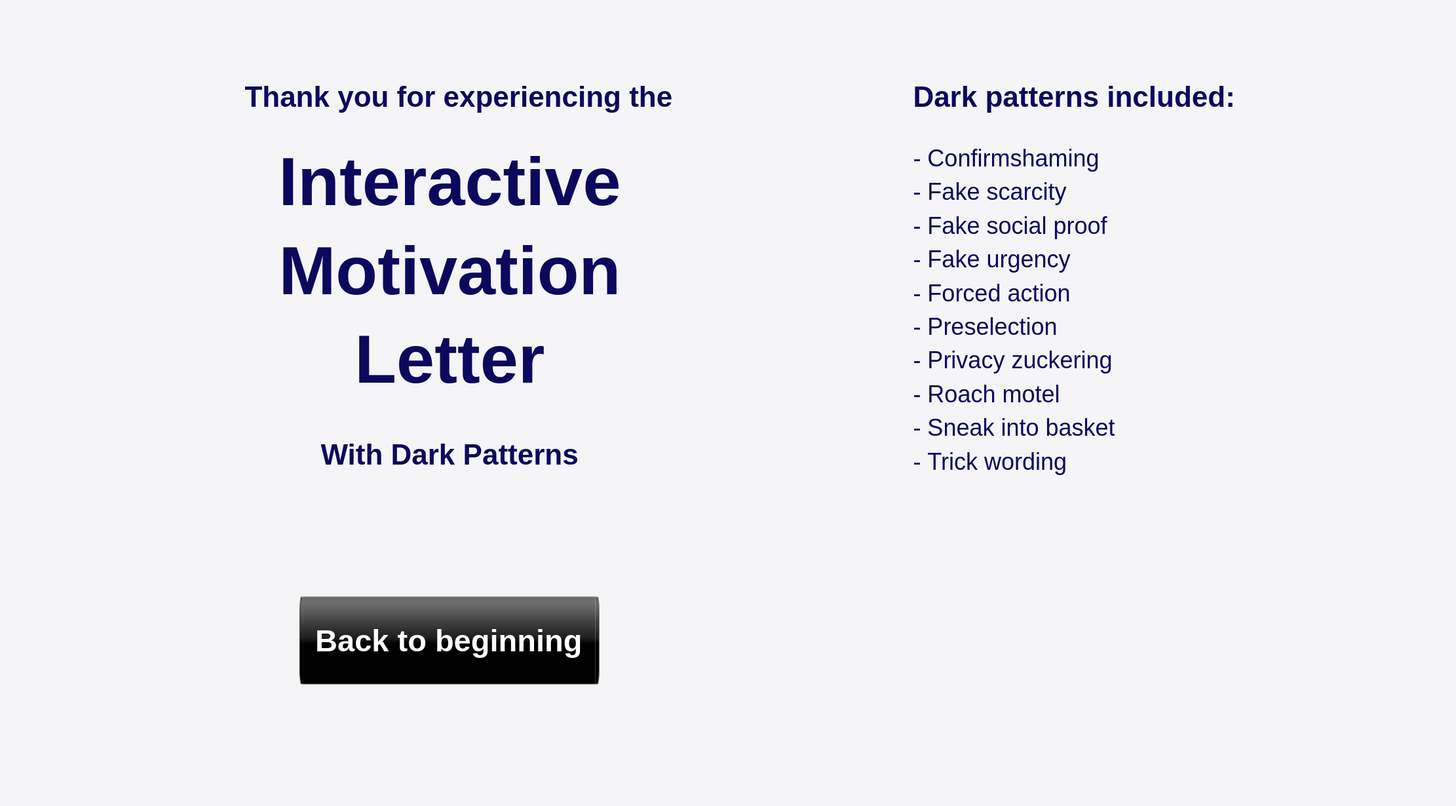
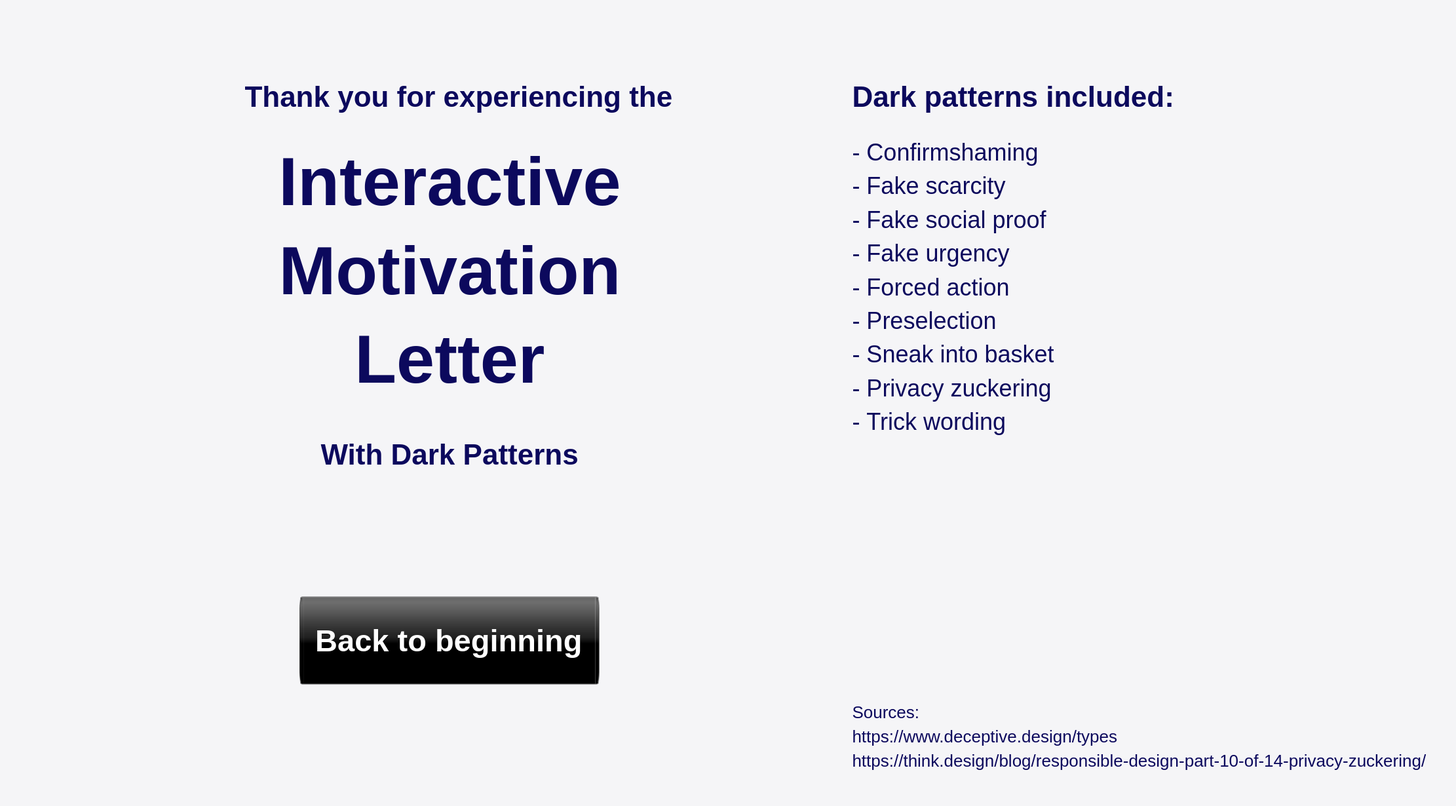
Add sources to last page

Changed region(s): [[0.59, 0.1854, 0.7763, 0.587], [0.59, 0.865, 0.9937, 0.9577], [0.59, 0.0927, 0.8384, 0.1545]]

diff --git a/index.html b/index.html
@@ -1,2 +1,2 @@
 <html xmlns="http://www.w3.org/1999/xhtml" xmlns:p="http://www.evolus.vn/Namespace/Pencil" xmlns:html="http://www.w3.org/1999/xhtml"><head><meta http-equiv="Content-Type" content="text/html; charset=UTF-8" />
-<title>IML-2025</title><link rel="stylesheet" href="Resources/style.css" /><script type="application/javascript" src="Resources/script.js"></script></head><body><h1 id="documentTitle">IML-2025</h1><p id="documentMetadata">Exported at: Mon Jan 06 2025 20:24:11 GMT+0200 (Eastern European Standard Time)</p><div class="Page" id="starting_page_page"><h2>Starting page</h2><div class="ImageContainer"><img src="pages/starting_page.png" width="2222" height="1230" usemap="#map_starting_page" /></div><map name="map_starting_page"><area shape="rect" coords="946.8125,771.5625,1275.5625,901.5625" href="#initialwords_page" title="Go to page 'initial_words'" /></map></div><div class="Page" id="initialwords_page"><h2>initial_words</h2><div class="ImageContainer"><img src="pages/initialwords.png" width="2222" height="1230" usemap="#map_initialwords" /></div><map name="map_initialwords"><area shape="rect" coords="930.9375,823.6875,1422.9375,869.6875" href="#initialwordscontinue_page" title="Go to page 'initial_words_continue'" /><area shape="rect" coords="838.75,812.1875,908.8125,882.25" href="#initialwordscontinue_page" title="Go to page 'initial_words_continue'" /></map></div><div class="Page" id="initialwordscontinue_page"><h2>initial_words_continue</h2><div class="ImageContainer"><img src="pages/initialwordscontinue.png" width="2222" height="1230" usemap="#map_initialwordscontinue" /></div><map name="map_initialwordscontinue"><area shape="rect" coords="846.48876953125,822.22314453125,899.608764648438,872.783142089844" href="#initialwords_page" title="Go to page 'initial_words'" /><area shape="rect" coords="930.9375,823.6875,1422.9375,869.6875" href="#initialwords_page" title="Go to page 'initial_words'" /><area shape="rect" coords="984.25,978,1236.75,1079.25" href="#createanewuser_page" title="Go to page 'create_a_new_user'" /></map></div><div class="Page" id="createanewuser_page"><h2>create_a_new_user</h2><div class="ImageContainer"><img src="pages/createanewuser.png" width="2222" height="1230" usemap="#map_createanewuser" /></div><map name="map_createanewuser"><area shape="rect" coords="770.625,822.5,1180.625,861.5" href="#createanewuserautofill_page" title="Go to page 'create_a_new_user_auto_fill'" /><area shape="rect" coords="771.625,722.5,1181.625,761.5" href="#createanewuserautofill_page" title="Go to page 'create_a_new_user_auto_fill'" /><area shape="rect" coords="771.625,630.5,1181.625,669.5" href="#createanewuserautofill_page" title="Go to page 'create_a_new_user_auto_fill'" /><area shape="rect" coords="771.625,540.5,1181.625,579.5" href="#createanewuserautofill_page" title="Go to page 'create_a_new_user_auto_fill'" /><area shape="rect" coords="771.625,448.5,1181.625,487.5" href="#createanewuserautofill_page" title="Go to page 'create_a_new_user_auto_fill'" /><area shape="rect" coords="771.625,348.5,1181.625,387.5" href="#createanewuserautofill_page" title="Go to page 'create_a_new_user_auto_fill'" /><area shape="rect" coords="771.625,256.5,1181.625,295.5" href="#createanewuserautofill_page" title="Go to page 'create_a_new_user_auto_fill'" /></map></div><div class="Page" id="createanewuserautofill_page"><h2>create_a_new_user_auto_fill</h2><div class="ImageContainer"><img src="pages/createanewuserautofill.png" width="2222" height="1230" usemap="#map_createanewuserautofill" /></div><map name="map_createanewuserautofill"><area shape="rect" coords="1201.5,247.5,1413.5,327.5" href="#createanewuserfilled_page" title="Go to page 'create_a_new_user_FILLED'" /></map></div><div class="Page" id="createanewuserfilled_page"><h2>create_a_new_user_FILLED</h2><div class="ImageContainer"><img src="pages/createanewuserfilled.png" width="2222" height="1230" usemap="#map_createanewuserfilled" /></div><map name="map_createanewuserfilled"><area shape="rect" coords="829.48876953125,929.22314453125,866.48876953125,961.22314453125" href="#initialwords_page" title="Go to page 'initial_words'" /><area shape="rect" coords="897.9375,907.6875,1389.9375,981.6875" href="#createanewuserfilleduncheck_page" title="Go to page 'create_a_new_user_FILLED_uncheck'" /><area shape="rect" coords="817.75,917.1875,877.75,972.1875" href="#createanewuserfilleduncheck_page" title="Go to page 'create_a_new_user_FILLED_uncheck'" /><area shape="rect" coords="986.25,1021,1238.75,1122.25" href="#log_in_page" title="Go to page 'log in'" /></map></div><div class="Page" id="createanewuserfilleduncheck_page"><h2>create_a_new_user_FILLED_uncheck</h2><div class="ImageContainer"><img src="pages/createanewuserfilleduncheck.png" width="2222" height="1230" usemap="#map_createanewuserfilleduncheck" /></div><map name="map_createanewuserfilleduncheck"><area shape="rect" coords="897.9375,907.6875,1389.9375,981.6875" href="#createanewuserfilled_page" title="Go to page 'create_a_new_user_FILLED'" /><area shape="rect" coords="817.75,917.1875,877.75,972.1875" href="#createanewuserfilled_page" title="Go to page 'create_a_new_user_FILLED'" /><area shape="rect" coords="986.25,1021,1238.75,1122.25" href="#log_in_page" title="Go to page 'log in'" /></map></div><div class="Page" id="log_in_page"><h2>log in</h2><div class="ImageContainer"><img src="pages/log_in.png" width="2222" height="1230" usemap="#map_log_in" /></div><map name="map_log_in"><area shape="rect" coords="984.25,708,1236.75,809.25" href="#tutorial1_page" title="Go to page 'Tutorial1'" /></map></div><div class="Page" id="tutorial1_page"><h2>Tutorial1</h2><div class="ImageContainer"><img src="pages/tutorial1.png" width="2225" height="1230" usemap="#map_tutorial1" /></div><map name="map_tutorial1"><area shape="rect" coords="864.75,629,1380.75,730" href="#tutorial2_page" title="Go to page 'Tutorial2'" /></map></div><div class="Page" id="tutorial2_page"><h2>Tutorial2</h2><div class="ImageContainer"><img src="pages/tutorial2.png" width="2225" height="1230" usemap="#map_tutorial2" /></div><map name="map_tutorial2"><area shape="rect" coords="1593.75,253,2109.75,354" href="#tutorial3_page" title="Go to page 'Tutorial3'" /></map></div><div class="Page" id="tutorial3_page"><h2>Tutorial3</h2><div class="ImageContainer"><img src="pages/tutorial3.png" width="2225" height="1230" usemap="#map_tutorial3" /></div><map name="map_tutorial3"><area shape="rect" coords="626.75,637,1142.75,738" href="#tutorial4_page" title="Go to page 'Tutorial4'" /></map></div><div class="Page" id="tutorial4_page"><h2>Tutorial4</h2><div class="ImageContainer"><img src="pages/tutorial4.png" width="2225" height="1230" usemap="#map_tutorial4" /></div><map name="map_tutorial4"><area shape="rect" coords="1317.75,916,1833.75,1017" href="#tutorial5_page" title="Go to page 'Tutorial5'" /></map></div><div class="Page" id="tutorial5_page"><h2>Tutorial5</h2><div class="ImageContainer"><img src="pages/tutorial5.png" width="2225" height="1230" usemap="#map_tutorial5" /></div><map name="map_tutorial5"><area shape="rect" coords="1432.75,690,1948.75,791" href="#tutorial6_page" title="Go to page 'Tutorial6'" /></map></div><div class="Page" id="tutorial6_page"><h2>Tutorial6</h2><div class="ImageContainer"><img src="pages/tutorial6.png" width="2225" height="1230" usemap="#map_tutorial6" /></div><map name="map_tutorial6"><area shape="rect" coords="832.75,709,1348.75,810" href="#home1_page" title="Go to page 'Home1'" /></map></div><div class="Page" id="home1_page"><h2>Home1</h2><div class="ImageContainer"><img src="pages/home1.png" width="2225" height="1230" usemap="#map_home1" /></div><map name="map_home1"><area shape="rect" coords="525,799.75,1429,870.75" href="#letter_passion_page" title="Go to page 'Letter Passion'" /></map></div><div class="Page" id="letter_passion_page"><h2>Letter Passion</h2><div class="ImageContainer"><img src="pages/letter_passion.png" width="2225" height="1230" usemap="#map_letter_passion" /></div><map name="map_letter_passion"><area shape="rect" coords="980.75,1090.25,1251,1160.25" href="#home21_page" title="Go to page 'Home2.1'" /></map></div><div class="Page" id="home21_page"><h2>Home2.1</h2><div class="ImageContainer"><img src="pages/home21.png" width="2225" height="1230" usemap="#map_home21" /></div><map name="map_home21"><area shape="rect" coords="956.75,888.75,1370.75,981.25" href="#home22_page" title="Go to page 'Home2.2'" /></map></div><div class="Page" id="home22_page"><h2>Home2.2</h2><div class="ImageContainer"><img src="pages/home22.png" width="2225" height="1230" usemap="#map_home22" /></div><map name="map_home22"><area shape="rect" coords="525,890.75,1429,961.75" href="#letter_tech_page" title="Go to page 'Letter Tech'" /></map></div><div class="Page" id="letter_tech_page"><h2>Letter Tech</h2><div class="ImageContainer"><img src="pages/letter_tech.png" width="2225" height="1230" usemap="#map_letter_tech" /></div><map name="map_letter_tech"><area shape="rect" coords="980.75,1090.25,1251,1160.25" href="#home31_page" title="Go to page 'Home3.1'" /></map></div><div class="Page" id="home31_page"><h2>Home3.1</h2><div class="ImageContainer"><img src="pages/home31.png" width="2225" height="1230" usemap="#map_home31" /></div><map name="map_home31"><area shape="rect" coords="930.75,812.75,1344.75,905.25" href="#home32_page" title="Go to page 'Home3.2'" /></map></div><div class="Page" id="home32_page"><h2>Home3.2</h2><div class="ImageContainer"><img src="pages/home32.png" width="2225" height="1230" usemap="#map_home32" /></div><map name="map_home32"><area shape="rect" coords="525,987.75,1429,1058.75" href="#letter_soft_page" title="Go to page 'Letter Soft'" /></map></div><div class="Page" id="letter_soft_page"><h2>Letter Soft</h2><div class="ImageContainer"><img src="pages/letter_soft.png" width="2225" height="1230" usemap="#map_letter_soft" /></div><map name="map_letter_soft"><area shape="rect" coords="980.75,1090.25,1251,1160.25" href="#home41_page" title="Go to page 'Home4.1'" /></map></div><div class="Page" id="home41_page"><h2>Home4.1</h2><div class="ImageContainer"><img src="pages/home41.png" width="2225" height="1230" usemap="#map_home41" /></div><map name="map_home41"><area shape="rect" coords="908.75,799.75,1322.75,892.25" href="#home42_page" title="Go to page 'Home4.2'" /></map></div><div class="Page" id="home42_page"><h2>Home4.2</h2><div class="ImageContainer"><img src="pages/home42.png" width="2225" height="1230" usemap="#map_home42" /></div><map name="map_home42"><area shape="rect" coords="525,1081.75,1429,1152.75" href="#letter_end_page" title="Go to page 'Letter End'" /></map></div><div class="Page" id="letter_end_page"><h2>Letter End</h2><div class="ImageContainer"><img src="pages/letter_end.png" width="2225" height="1230" usemap="#map_letter_end" /></div><map name="map_letter_end"><area shape="rect" coords="980.75,1090.25,1251,1160.25" href="#home51_page" title="Go to page 'Home5.1'" /></map></div><div class="Page" id="home51_page"><h2>Home5.1</h2><div class="ImageContainer"><img src="pages/home51.png" width="2225" height="1230" usemap="#map_home51" /></div><map name="map_home51"><area shape="rect" coords="899.75,960.75,1313.75,1053.25" href="#home52_page" title="Go to page 'Home5.2'" /></map></div><div class="Page" id="home52_page"><h2>Home5.2</h2><div class="ImageContainer"><img src="pages/home52.png" width="2225" height="1230" usemap="#map_home52" /></div><map name="map_home52"><area shape="rect" coords="899.75,960.75,1313.75,1053.25" href="#home53_page" title="Go to page 'Home5.3'" /></map></div><div class="Page" id="home53_page"><h2>Home5.3</h2><div class="ImageContainer"><img src="pages/home53.png" width="2225" height="1230" usemap="#map_home53" /></div><map name="map_home53"><area shape="rect" coords="448.75,425.25,884.75,495.25" href="#shopping_cart_page" title="Go to page 'Shopping Cart'" /></map></div><div class="Page" id="home54_page"><h2>Home5.4</h2><div class="ImageContainer"><img src="pages/home54.png" width="2225" height="1230" usemap="#map_home54" /></div><map name="map_home54"><area shape="rect" coords="892.75,752.75,1306.75,845.25" href="#home55_page" title="Go to page 'Home5.5'" /><area shape="rect" coords="2139.125,12.625,2217.25,90.7500152587891" href="#logout1_page" title="Go to page 'Logout1'" /></map></div><div class="Page" id="home55_page"><h2>Home5.5</h2><div class="ImageContainer"><img src="pages/home55.png" width="2225" height="1230" usemap="#map_home55" /></div><map name="map_home55"><area shape="rect" coords="448.75,425.25,884.75,495.25" href="#shopping_cart_page" title="Go to page 'Shopping Cart'" /><area shape="rect" coords="2139.125,12.625,2217.25,90.7500152587891" href="#logout1_page" title="Go to page 'Logout1'" /></map></div><div class="Page" id="shopping_cart_page"><h2>Shopping Cart</h2><div class="ImageContainer"><img src="pages/shopping_cart.png" width="2225" height="1230" usemap="#map_shopping_cart" /></div><map name="map_shopping_cart"><area shape="rect" coords="1179.75,377.25,1495.75,447.25" href="#cart_delete_page" title="Go to page 'Cart delete'" /><area shape="rect" coords="1582.75,476,1883.75,537" href="#normal_checkout_page" title="Go to page 'Normal Checkout'" /><area shape="rect" coords="2139.125,12.625,2217.25,90.7500152587891" href="#logout1_page" title="Go to page 'Logout1'" /></map></div><div class="Page" id="normal_checkout_page"><h2>Normal Checkout</h2><div class="ImageContainer"><img src="pages/normal_checkout.png" width="2225" height="1230" usemap="#map_normal_checkout" /></div><map name="map_normal_checkout"><area shape="rect" coords="900.5,780.75,1315.25,863" href="#purchased_page" title="Go to page 'Purchased'" /><area shape="rect" coords="671.5,1130.3125,735,1164.3125" href="#shopping_cart_page" title="Go to page 'Shopping Cart'" /></map></div><div class="Page" id="cart_delete_page"><h2>Cart delete</h2><div class="ImageContainer"><img src="pages/cart_delete.png" width="2225" height="1230" usemap="#map_cart_delete" /></div><map name="map_cart_delete"><area shape="rect" coords="671.5,1143.3125,809.231994628906,1177.3125" href="#deleted_item_page" title="Go to page 'Deleted Item'" /><area shape="rect" coords="947.75,825.25,1263.75,895.25" href="#shopping_cart_page" title="Go to page 'Shopping Cart'" /></map></div><div class="Page" id="deleted_item_page"><h2>Deleted Item</h2><div class="ImageContainer"><img src="pages/deleted_item.png" width="2225" height="1230" usemap="#map_deleted_item" /></div><map name="map_deleted_item"><area shape="rect" coords="1501.75,1073.25,1742.75,1143.25" href="#shopping_cart_page" title="Go to page 'Shopping Cart'" /><area shape="rect" coords="1582.75,476,1883.75,537" href="#deleted_checkout_page" title="Go to page 'Deleted Checkout'" /><area shape="rect" coords="2139.125,12.625,2217.25,90.7500152587891" href="#logout1_page" title="Go to page 'Logout1'" /></map></div><div class="Page" id="deleted_checkout_page"><h2>Deleted Checkout</h2><div class="ImageContainer"><img src="pages/deleted_checkout.png" width="2225" height="1230" usemap="#map_deleted_checkout" /></div><map name="map_deleted_checkout"><area shape="rect" coords="893.5,623.75,1308.25,706" href="#purchased_page" title="Go to page 'Purchased'" /><area shape="rect" coords="676.5,1143.3125,740,1177.3125" href="#deleted_item_page" title="Go to page 'Deleted Item'" /><area shape="rect" coords="1501.75,1073.25,1742.75,1143.25" href="#shopping_cart_page" title="Go to page 'Shopping Cart'" /></map></div><div class="Page" id="purchased_page"><h2>Purchased</h2><div class="ImageContainer"><img src="pages/purchased.png" width="2225" height="1230" usemap="#map_purchased" /></div><map name="map_purchased"><area shape="rect" coords="796.75,1014,1392.75,1130" href="#home54_page" title="Go to page 'Home5.4'" /></map></div><div class="Page" id="logout1_page"><h2>Logout1</h2><div class="ImageContainer"><img src="pages/logout1.png" width="2225" height="1230" usemap="#map_logout1" /></div><map name="map_logout1"><area shape="rect" coords="884.5,380.3125,951,414.3125" href="#logout2_page" title="Go to page 'Logout2'" /><area shape="rect" coords="1100.75,355.5,1466,439.25" href="#home55_page" title="Go to page 'Home5.5'" /></map></div><div class="Page" id="logout2_page"><h2>Logout2</h2><div class="ImageContainer"><img src="pages/logout2.png" width="2225" height="1230" usemap="#map_logout2" /></div><map name="map_logout2"><area shape="rect" coords="924.5,431.3125,991,465.3125" href="#logout3_page" title="Go to page 'Logout3'" /><area shape="rect" coords="1028.75,343.75,1516.5,451.25" href="#home55_page" title="Go to page 'Home5.5'" /></map></div><div class="Page" id="logout3_page"><h2>Logout3</h2><div class="ImageContainer"><img src="pages/logout3.png" width="2225" height="1230" usemap="#map_logout3" /></div><map name="map_logout3"><area shape="rect" coords="935.75,309.25,1714.75,484.25" href="#home55_page" title="Go to page 'Home5.5'" /><area shape="rect" coords="905.5,320.3125,972,354.3125" href="#end_page_page" title="Go to page 'End page'" /></map></div><div class="Page" id="end_page_page"><h2>End page</h2><div class="ImageContainer"><img src="pages/end_page.png" width="2222" height="1230" usemap="#map_end_page" /></div><map name="map_end_page"><area shape="rect" coords="457.0625,910.5625,914.5625,1044.3125" href="#starting_page_page" title="Go to page 'Starting page'" /></map></div></body></html>
+<title>IML-2025</title><link rel="stylesheet" href="Resources/style.css" /><script type="application/javascript" src="Resources/script.js"></script></head><body><h1 id="documentTitle">IML-2025</h1><p id="documentMetadata">Exported at: Mon Jan 06 2025 20:43:01 GMT+0200 (Eastern European Standard Time)</p><div class="Page" id="starting_page_page"><h2>Starting page</h2><div class="ImageContainer"><img src="pages/starting_page.png" width="2222" height="1230" usemap="#map_starting_page" /></div><map name="map_starting_page"><area shape="rect" coords="946.8125,771.5625,1275.5625,901.5625" href="#initialwords_page" title="Go to page 'initial_words'" /></map></div><div class="Page" id="initialwords_page"><h2>initial_words</h2><div class="ImageContainer"><img src="pages/initialwords.png" width="2222" height="1230" usemap="#map_initialwords" /></div><map name="map_initialwords"><area shape="rect" coords="930.9375,823.6875,1422.9375,869.6875" href="#initialwordscontinue_page" title="Go to page 'initial_words_continue'" /><area shape="rect" coords="838.75,812.1875,908.8125,882.25" href="#initialwordscontinue_page" title="Go to page 'initial_words_continue'" /></map></div><div class="Page" id="initialwordscontinue_page"><h2>initial_words_continue</h2><div class="ImageContainer"><img src="pages/initialwordscontinue.png" width="2222" height="1230" usemap="#map_initialwordscontinue" /></div><map name="map_initialwordscontinue"><area shape="rect" coords="846.48876953125,822.22314453125,899.608764648438,872.783142089844" href="#initialwords_page" title="Go to page 'initial_words'" /><area shape="rect" coords="930.9375,823.6875,1422.9375,869.6875" href="#initialwords_page" title="Go to page 'initial_words'" /><area shape="rect" coords="984.25,978,1236.75,1079.25" href="#createanewuser_page" title="Go to page 'create_a_new_user'" /></map></div><div class="Page" id="createanewuser_page"><h2>create_a_new_user</h2><div class="ImageContainer"><img src="pages/createanewuser.png" width="2222" height="1230" usemap="#map_createanewuser" /></div><map name="map_createanewuser"><area shape="rect" coords="770.625,822.5,1180.625,861.5" href="#createanewuserautofill_page" title="Go to page 'create_a_new_user_auto_fill'" /><area shape="rect" coords="771.625,722.5,1181.625,761.5" href="#createanewuserautofill_page" title="Go to page 'create_a_new_user_auto_fill'" /><area shape="rect" coords="771.625,630.5,1181.625,669.5" href="#createanewuserautofill_page" title="Go to page 'create_a_new_user_auto_fill'" /><area shape="rect" coords="771.625,540.5,1181.625,579.5" href="#createanewuserautofill_page" title="Go to page 'create_a_new_user_auto_fill'" /><area shape="rect" coords="771.625,448.5,1181.625,487.5" href="#createanewuserautofill_page" title="Go to page 'create_a_new_user_auto_fill'" /><area shape="rect" coords="771.625,348.5,1181.625,387.5" href="#createanewuserautofill_page" title="Go to page 'create_a_new_user_auto_fill'" /><area shape="rect" coords="771.625,256.5,1181.625,295.5" href="#createanewuserautofill_page" title="Go to page 'create_a_new_user_auto_fill'" /></map></div><div class="Page" id="createanewuserautofill_page"><h2>create_a_new_user_auto_fill</h2><div class="ImageContainer"><img src="pages/createanewuserautofill.png" width="2222" height="1230" usemap="#map_createanewuserautofill" /></div><map name="map_createanewuserautofill"><area shape="rect" coords="1201.5,247.5,1413.5,327.5" href="#createanewuserfilled_page" title="Go to page 'create_a_new_user_FILLED'" /></map></div><div class="Page" id="createanewuserfilled_page"><h2>create_a_new_user_FILLED</h2><div class="ImageContainer"><img src="pages/createanewuserfilled.png" width="2222" height="1230" usemap="#map_createanewuserfilled" /></div><map name="map_createanewuserfilled"><area shape="rect" coords="829.48876953125,929.22314453125,866.48876953125,961.22314453125" href="#initialwords_page" title="Go to page 'initial_words'" /><area shape="rect" coords="897.9375,907.6875,1389.9375,981.6875" href="#createanewuserfilleduncheck_page" title="Go to page 'create_a_new_user_FILLED_uncheck'" /><area shape="rect" coords="817.75,917.1875,877.75,972.1875" href="#createanewuserfilleduncheck_page" title="Go to page 'create_a_new_user_FILLED_uncheck'" /><area shape="rect" coords="986.25,1021,1238.75,1122.25" href="#log_in_page" title="Go to page 'log in'" /></map></div><div class="Page" id="createanewuserfilleduncheck_page"><h2>create_a_new_user_FILLED_uncheck</h2><div class="ImageContainer"><img src="pages/createanewuserfilleduncheck.png" width="2222" height="1230" usemap="#map_createanewuserfilleduncheck" /></div><map name="map_createanewuserfilleduncheck"><area shape="rect" coords="897.9375,907.6875,1389.9375,981.6875" href="#createanewuserfilled_page" title="Go to page 'create_a_new_user_FILLED'" /><area shape="rect" coords="817.75,917.1875,877.75,972.1875" href="#createanewuserfilled_page" title="Go to page 'create_a_new_user_FILLED'" /><area shape="rect" coords="986.25,1021,1238.75,1122.25" href="#log_in_page" title="Go to page 'log in'" /></map></div><div class="Page" id="log_in_page"><h2>log in</h2><div class="ImageContainer"><img src="pages/log_in.png" width="2222" height="1230" usemap="#map_log_in" /></div><map name="map_log_in"><area shape="rect" coords="984.25,708,1236.75,809.25" href="#tutorial1_page" title="Go to page 'Tutorial1'" /></map></div><div class="Page" id="tutorial1_page"><h2>Tutorial1</h2><div class="ImageContainer"><img src="pages/tutorial1.png" width="2225" height="1230" usemap="#map_tutorial1" /></div><map name="map_tutorial1"><area shape="rect" coords="864.75,629,1380.75,730" href="#tutorial2_page" title="Go to page 'Tutorial2'" /></map></div><div class="Page" id="tutorial2_page"><h2>Tutorial2</h2><div class="ImageContainer"><img src="pages/tutorial2.png" width="2225" height="1230" usemap="#map_tutorial2" /></div><map name="map_tutorial2"><area shape="rect" coords="1593.75,253,2109.75,354" href="#tutorial3_page" title="Go to page 'Tutorial3'" /></map></div><div class="Page" id="tutorial3_page"><h2>Tutorial3</h2><div class="ImageContainer"><img src="pages/tutorial3.png" width="2225" height="1230" usemap="#map_tutorial3" /></div><map name="map_tutorial3"><area shape="rect" coords="626.75,637,1142.75,738" href="#tutorial4_page" title="Go to page 'Tutorial4'" /></map></div><div class="Page" id="tutorial4_page"><h2>Tutorial4</h2><div class="ImageContainer"><img src="pages/tutorial4.png" width="2225" height="1230" usemap="#map_tutorial4" /></div><map name="map_tutorial4"><area shape="rect" coords="1317.75,916,1833.75,1017" href="#tutorial5_page" title="Go to page 'Tutorial5'" /></map></div><div class="Page" id="tutorial5_page"><h2>Tutorial5</h2><div class="ImageContainer"><img src="pages/tutorial5.png" width="2225" height="1230" usemap="#map_tutorial5" /></div><map name="map_tutorial5"><area shape="rect" coords="1432.75,690,1948.75,791" href="#tutorial6_page" title="Go to page 'Tutorial6'" /></map></div><div class="Page" id="tutorial6_page"><h2>Tutorial6</h2><div class="ImageContainer"><img src="pages/tutorial6.png" width="2225" height="1230" usemap="#map_tutorial6" /></div><map name="map_tutorial6"><area shape="rect" coords="832.75,709,1348.75,810" href="#home1_page" title="Go to page 'Home1'" /></map></div><div class="Page" id="home1_page"><h2>Home1</h2><div class="ImageContainer"><img src="pages/home1.png" width="2225" height="1230" usemap="#map_home1" /></div><map name="map_home1"><area shape="rect" coords="525,799.75,1429,870.75" href="#letter_passion_page" title="Go to page 'Letter Passion'" /></map></div><div class="Page" id="letter_passion_page"><h2>Letter Passion</h2><div class="ImageContainer"><img src="pages/letter_passion.png" width="2225" height="1230" usemap="#map_letter_passion" /></div><map name="map_letter_passion"><area shape="rect" coords="980.75,1090.25,1251,1160.25" href="#home21_page" title="Go to page 'Home2.1'" /></map></div><div class="Page" id="home21_page"><h2>Home2.1</h2><div class="ImageContainer"><img src="pages/home21.png" width="2225" height="1230" usemap="#map_home21" /></div><map name="map_home21"><area shape="rect" coords="956.75,888.75,1370.75,981.25" href="#home22_page" title="Go to page 'Home2.2'" /></map></div><div class="Page" id="home22_page"><h2>Home2.2</h2><div class="ImageContainer"><img src="pages/home22.png" width="2225" height="1230" usemap="#map_home22" /></div><map name="map_home22"><area shape="rect" coords="525,890.75,1429,961.75" href="#letter_tech_page" title="Go to page 'Letter Tech'" /></map></div><div class="Page" id="letter_tech_page"><h2>Letter Tech</h2><div class="ImageContainer"><img src="pages/letter_tech.png" width="2225" height="1230" usemap="#map_letter_tech" /></div><map name="map_letter_tech"><area shape="rect" coords="980.75,1090.25,1251,1160.25" href="#home31_page" title="Go to page 'Home3.1'" /></map></div><div class="Page" id="home31_page"><h2>Home3.1</h2><div class="ImageContainer"><img src="pages/home31.png" width="2225" height="1230" usemap="#map_home31" /></div><map name="map_home31"><area shape="rect" coords="930.75,812.75,1344.75,905.25" href="#home32_page" title="Go to page 'Home3.2'" /></map></div><div class="Page" id="home32_page"><h2>Home3.2</h2><div class="ImageContainer"><img src="pages/home32.png" width="2225" height="1230" usemap="#map_home32" /></div><map name="map_home32"><area shape="rect" coords="525,987.75,1429,1058.75" href="#letter_soft_page" title="Go to page 'Letter Soft'" /></map></div><div class="Page" id="letter_soft_page"><h2>Letter Soft</h2><div class="ImageContainer"><img src="pages/letter_soft.png" width="2225" height="1230" usemap="#map_letter_soft" /></div><map name="map_letter_soft"><area shape="rect" coords="980.75,1090.25,1251,1160.25" href="#home41_page" title="Go to page 'Home4.1'" /></map></div><div class="Page" id="home41_page"><h2>Home4.1</h2><div class="ImageContainer"><img src="pages/home41.png" width="2225" height="1230" usemap="#map_home41" /></div><map name="map_home41"><area shape="rect" coords="908.75,799.75,1322.75,892.25" href="#home42_page" title="Go to page 'Home4.2'" /></map></div><div class="Page" id="home42_page"><h2>Home4.2</h2><div class="ImageContainer"><img src="pages/home42.png" width="2225" height="1230" usemap="#map_home42" /></div><map name="map_home42"><area shape="rect" coords="525,1081.75,1429,1152.75" href="#letter_end_page" title="Go to page 'Letter End'" /></map></div><div class="Page" id="letter_end_page"><h2>Letter End</h2><div class="ImageContainer"><img src="pages/letter_end.png" width="2225" height="1230" usemap="#map_letter_end" /></div><map name="map_letter_end"><area shape="rect" coords="980.75,1090.25,1251,1160.25" href="#home51_page" title="Go to page 'Home5.1'" /></map></div><div class="Page" id="home51_page"><h2>Home5.1</h2><div class="ImageContainer"><img src="pages/home51.png" width="2225" height="1230" usemap="#map_home51" /></div><map name="map_home51"><area shape="rect" coords="899.75,960.75,1313.75,1053.25" href="#home52_page" title="Go to page 'Home5.2'" /></map></div><div class="Page" id="home52_page"><h2>Home5.2</h2><div class="ImageContainer"><img src="pages/home52.png" width="2225" height="1230" usemap="#map_home52" /></div><map name="map_home52"><area shape="rect" coords="899.75,960.75,1313.75,1053.25" href="#home53_page" title="Go to page 'Home5.3'" /></map></div><div class="Page" id="home53_page"><h2>Home5.3</h2><div class="ImageContainer"><img src="pages/home53.png" width="2225" height="1230" usemap="#map_home53" /></div><map name="map_home53"><area shape="rect" coords="448.75,425.25,884.75,495.25" href="#shopping_cart_page" title="Go to page 'Shopping Cart'" /></map></div><div class="Page" id="home54_page"><h2>Home5.4</h2><div class="ImageContainer"><img src="pages/home54.png" width="2225" height="1230" usemap="#map_home54" /></div><map name="map_home54"><area shape="rect" coords="892.75,752.75,1306.75,845.25" href="#home55_page" title="Go to page 'Home5.5'" /><area shape="rect" coords="2139.125,12.625,2217.25,90.7500152587891" href="#logout1_page" title="Go to page 'Logout1'" /></map></div><div class="Page" id="home55_page"><h2>Home5.5</h2><div class="ImageContainer"><img src="pages/home55.png" width="2225" height="1230" usemap="#map_home55" /></div><map name="map_home55"><area shape="rect" coords="448.75,425.25,884.75,495.25" href="#shopping_cart_page" title="Go to page 'Shopping Cart'" /><area shape="rect" coords="2139.125,12.625,2217.25,90.7500152587891" href="#logout1_page" title="Go to page 'Logout1'" /></map></div><div class="Page" id="shopping_cart_page"><h2>Shopping Cart</h2><div class="ImageContainer"><img src="pages/shopping_cart.png" width="2225" height="1230" usemap="#map_shopping_cart" /></div><map name="map_shopping_cart"><area shape="rect" coords="1179.75,377.25,1495.75,447.25" href="#cart_delete_page" title="Go to page 'Cart delete'" /><area shape="rect" coords="1582.75,476,1883.75,537" href="#normal_checkout_page" title="Go to page 'Normal Checkout'" /><area shape="rect" coords="2139.125,12.625,2217.25,90.7500152587891" href="#logout1_page" title="Go to page 'Logout1'" /></map></div><div class="Page" id="normal_checkout_page"><h2>Normal Checkout</h2><div class="ImageContainer"><img src="pages/normal_checkout.png" width="2225" height="1230" usemap="#map_normal_checkout" /></div><map name="map_normal_checkout"><area shape="rect" coords="900.5,780.75,1315.25,863" href="#purchased_page" title="Go to page 'Purchased'" /><area shape="rect" coords="671.5,1130.3125,735,1164.3125" href="#shopping_cart_page" title="Go to page 'Shopping Cart'" /></map></div><div class="Page" id="cart_delete_page"><h2>Cart delete</h2><div class="ImageContainer"><img src="pages/cart_delete.png" width="2225" height="1230" usemap="#map_cart_delete" /></div><map name="map_cart_delete"><area shape="rect" coords="671.5,1143.3125,809.231994628906,1177.3125" href="#deleted_item_page" title="Go to page 'Deleted Item'" /><area shape="rect" coords="947.75,825.25,1263.75,895.25" href="#shopping_cart_page" title="Go to page 'Shopping Cart'" /></map></div><div class="Page" id="deleted_item_page"><h2>Deleted Item</h2><div class="ImageContainer"><img src="pages/deleted_item.png" width="2225" height="1230" usemap="#map_deleted_item" /></div><map name="map_deleted_item"><area shape="rect" coords="1501.75,1073.25,1742.75,1143.25" href="#shopping_cart_page" title="Go to page 'Shopping Cart'" /><area shape="rect" coords="1582.75,476,1883.75,537" href="#deleted_checkout_page" title="Go to page 'Deleted Checkout'" /><area shape="rect" coords="2139.125,12.625,2217.25,90.7500152587891" href="#logout1_page" title="Go to page 'Logout1'" /></map></div><div class="Page" id="deleted_checkout_page"><h2>Deleted Checkout</h2><div class="ImageContainer"><img src="pages/deleted_checkout.png" width="2225" height="1230" usemap="#map_deleted_checkout" /></div><map name="map_deleted_checkout"><area shape="rect" coords="893.5,623.75,1308.25,706" href="#purchased_page" title="Go to page 'Purchased'" /><area shape="rect" coords="676.5,1143.3125,740,1177.3125" href="#deleted_item_page" title="Go to page 'Deleted Item'" /><area shape="rect" coords="1501.75,1073.25,1742.75,1143.25" href="#shopping_cart_page" title="Go to page 'Shopping Cart'" /></map></div><div class="Page" id="purchased_page"><h2>Purchased</h2><div class="ImageContainer"><img src="pages/purchased.png" width="2225" height="1230" usemap="#map_purchased" /></div><map name="map_purchased"><area shape="rect" coords="796.75,1014,1392.75,1130" href="#home54_page" title="Go to page 'Home5.4'" /></map></div><div class="Page" id="logout1_page"><h2>Logout1</h2><div class="ImageContainer"><img src="pages/logout1.png" width="2225" height="1230" usemap="#map_logout1" /></div><map name="map_logout1"><area shape="rect" coords="884.5,380.3125,951,414.3125" href="#logout2_page" title="Go to page 'Logout2'" /><area shape="rect" coords="1100.75,355.5,1466,439.25" href="#home55_page" title="Go to page 'Home5.5'" /></map></div><div class="Page" id="logout2_page"><h2>Logout2</h2><div class="ImageContainer"><img src="pages/logout2.png" width="2225" height="1230" usemap="#map_logout2" /></div><map name="map_logout2"><area shape="rect" coords="924.5,431.3125,991,465.3125" href="#logout3_page" title="Go to page 'Logout3'" /><area shape="rect" coords="1028.75,343.75,1516.5,451.25" href="#home55_page" title="Go to page 'Home5.5'" /></map></div><div class="Page" id="logout3_page"><h2>Logout3</h2><div class="ImageContainer"><img src="pages/logout3.png" width="2225" height="1230" usemap="#map_logout3" /></div><map name="map_logout3"><area shape="rect" coords="935.75,309.25,1714.75,484.25" href="#home55_page" title="Go to page 'Home5.5'" /><area shape="rect" coords="905.5,320.3125,972,354.3125" href="#end_page_page" title="Go to page 'End page'" /></map></div><div class="Page" id="end_page_page"><h2>End page</h2><div class="ImageContainer"><img src="pages/end_page.png" width="2222" height="1230" usemap="#map_end_page" /></div><map name="map_end_page"><area shape="rect" coords="457.0625,910.5625,914.5625,1044.3125" href="#starting_page_page" title="Go to page 'Starting page'" /></map></div></body></html>
